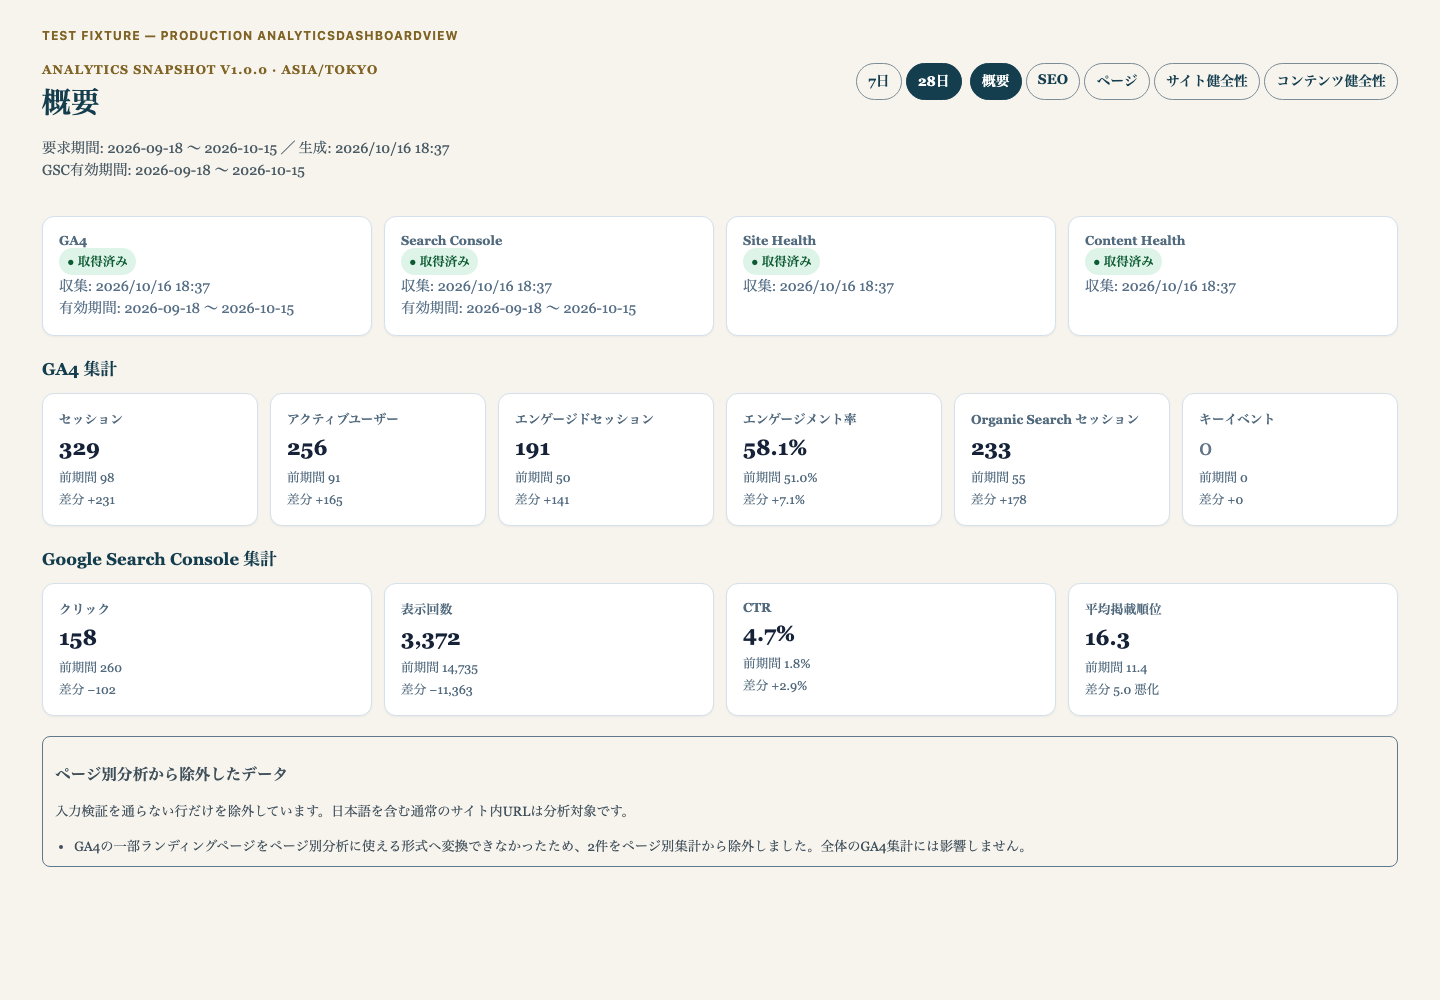
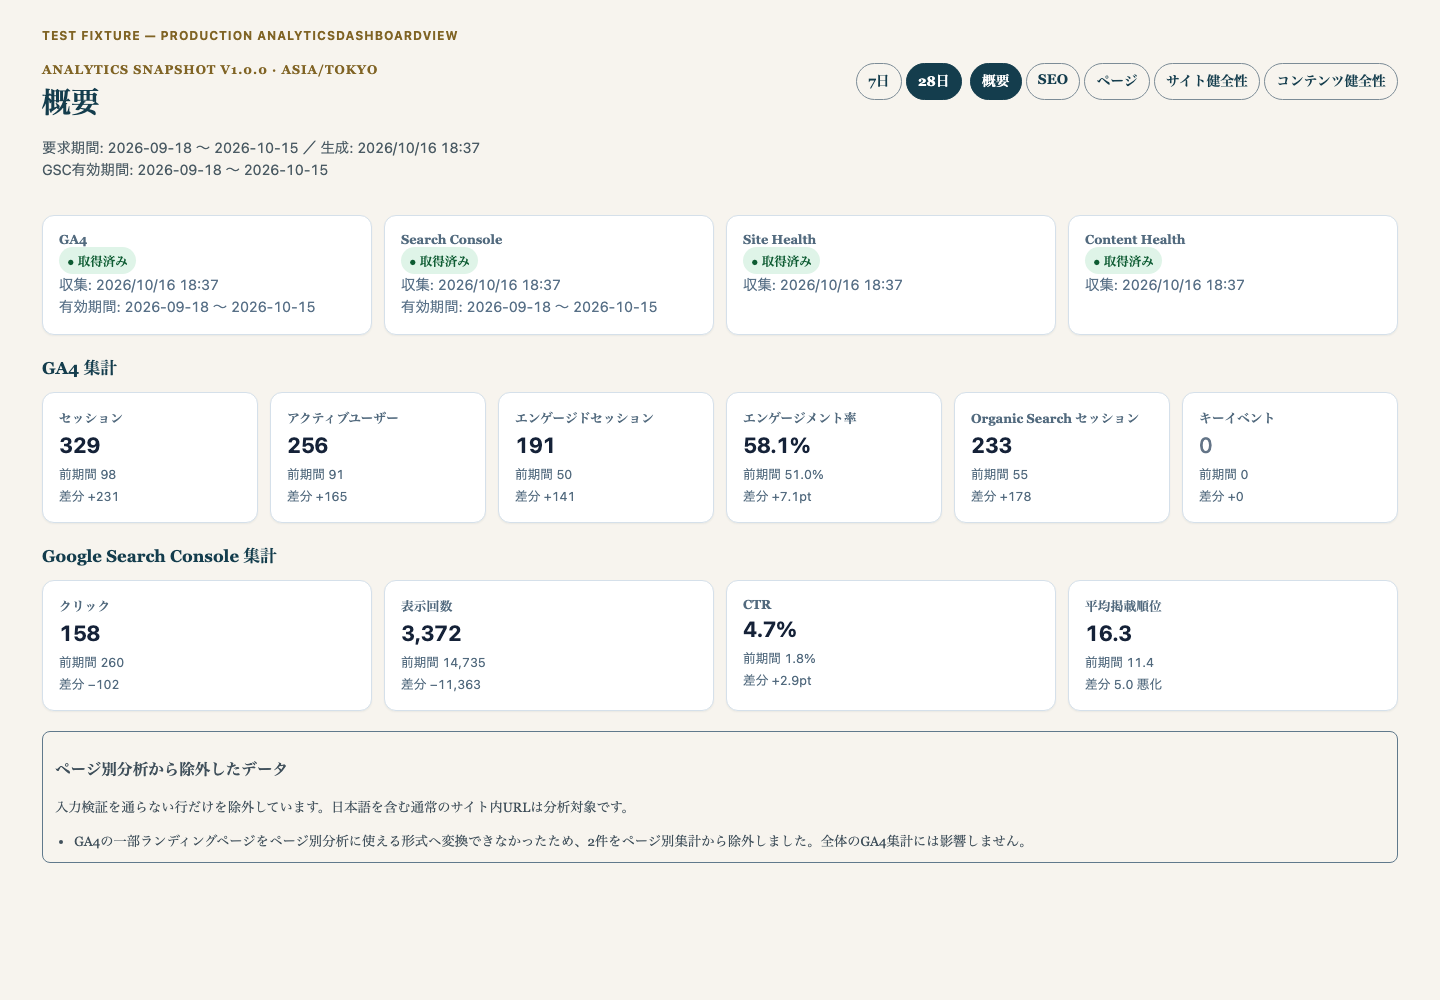
fix(analytics): improve numeric readability

diff --git a/headless/app/dashboard/analytics/AnalyticsDashboardView.ts b/headless/app/dashboard/analytics/AnalyticsDashboardView.ts
@@ -44,7 +44,7 @@ function overview(snapshot: AnalyticsSnapshot, styles: AnalyticsDashboardStyles)
 function seoRow(row: FocusArea, styles: AnalyticsDashboardStyles): ReactNode {
   const health = row.siteHealth;
   const indexability = !health || health.data === null || health.data.indexable === null ? "算出不可" : health.data.indexable ? "indexable" : health.data.indexabilityReason;
-  return h("tr", { key: row.path }, h("th", { scope: "row" }, h("strong", null, row.name), h("br"), h("span", { className: styles.path }, row.path)), h("td", null, row.mainQuery ?? "—"), tableCell(row.current.clicks, "count", styles), tableCell(row.previous.clicks, "count", styles), deltaCell(row.deltas.clicks, "count", styles), tableCell(row.current.impressions, "count", styles), tableCell(row.previous.impressions, "count", styles), deltaCell(row.deltas.impressions, "count", styles), tableCell(row.current.ctr, "percent", styles), tableCell(row.previous.ctr, "percent", styles), deltaCell(row.deltas.ctr, "percent", styles), tableCell(row.current.position, "position", styles), tableCell(row.previous.position, "position", styles), deltaCell(row.deltas.position, "position", styles), tableCell(row.current.organicSessions, "count", styles), tableCell(row.previous.organicSessions, "count", styles), deltaCell(row.deltas.organicSessions, "count", styles), h("td", null, health?.httpStatus ?? "—"), h("td", null, health?.data?.title ?? "—"), h("td", null, health?.data?.h1 ?? "—"), h("td", null, health?.data?.canonical ?? "—"), h("td", null, health?.data?.robots ?? "—"), h("td", null, indexability), h("td", null, formatTimestamp(row.checkedAt), h("br"), `GSC: ${formatTimestamp(row.collectedAt)}`));
+  return h("tr", { key: row.path }, h("th", { scope: "row" }, h("strong", null, row.name), h("br"), h("span", { className: styles.path }, row.path)), h("td", null, row.mainQuery ?? "—"), tableCell(row.current.clicks, "count", styles), tableCell(row.previous.clicks, "count", styles), deltaCell(row.deltas.clicks, "count", styles), tableCell(row.current.impressions, "count", styles), tableCell(row.previous.impressions, "count", styles), deltaCell(row.deltas.impressions, "count", styles), tableCell(row.current.ctr, "percent", styles), tableCell(row.previous.ctr, "percent", styles), deltaCell(row.deltas.ctr, "percent", styles), tableCell(row.current.position, "position", styles), tableCell(row.previous.position, "position", styles), deltaCell(row.deltas.position, "position", styles), tableCell(row.current.organicSessions, "count", styles), tableCell(row.previous.organicSessions, "count", styles), deltaCell(row.deltas.organicSessions, "count", styles), h("td", { className: styles.dataText }, health?.httpStatus ?? "—"), h("td", null, health?.data?.title ?? "—"), h("td", null, health?.data?.h1 ?? "—"), h("td", null, health?.data?.canonical ?? "—"), h("td", null, health?.data?.robots ?? "—"), h("td", null, indexability), h("td", { className: styles.dataText }, formatTimestamp(row.checkedAt), h("br"), `GSC: ${formatTimestamp(row.collectedAt)}`));
 }
 
 function tableRegion(label: string, caption: string, headers: readonly string[], rows: ReactNode[], styles: AnalyticsDashboardStyles, emptyMessage?: string): ReactNode { const bodyRows = rows.length ? rows : [h("tr", { key: "empty" }, h("td", { colSpan: headers.length }, emptyMessage ?? "対象期間にデータなし"))]; return h("div", { className: styles.scrollRegion, tabIndex: 0, "aria-label": label }, h("table", { className: styles.table }, h("caption", null, caption), h("thead", null, h("tr", null, ...headers.map((name) => h("th", { scope: "col", key: name }, name)))), h("tbody", null, ...bodyRows))); }
@@ -66,7 +66,7 @@ function pages(snapshot: AnalyticsSnapshot, styles: AnalyticsDashboardStyles): R
 function siteHealth(snapshot: AnalyticsSnapshot, styles: AnalyticsDashboardStyles): ReactNode {
   if (snapshot.siteHealth === null) return h("p", { className: styles.unavailable }, `Site Health: ${sourceStateLabel(snapshot.sources.web.state)}。利用可能な検査結果はありません。`);
   const headers = ["URL / パス", "状態", "HTTP", "title", "H1", "canonical", "robots", "indexability / reason", "checkedAt"];
-  const rows = snapshot.siteHealth.map((target) => h("tr", { key: target.path }, h("th", { scope: "row", className: styles.path }, target.path), h("td", null, badge(target.state, styles)), h("td", null, target.httpStatus ?? "—"), h("td", null, target.data?.title ?? "—"), h("td", null, target.data?.h1 ?? "—"), h("td", null, target.data?.canonical ?? "—"), h("td", null, target.data?.robots ?? "—"), h("td", null, target.data ? target.data.indexable === null ? target.data.indexabilityReason : target.data.indexable ? "indexable" : target.data.indexabilityReason : "算出不可"), h("td", null, formatTimestamp(target.checkedAt))));
+  const rows = snapshot.siteHealth.map((target) => h("tr", { key: target.path }, h("th", { scope: "row", className: styles.path }, target.path), h("td", null, badge(target.state, styles)), h("td", { className: styles.dataText }, target.httpStatus ?? "—"), h("td", null, target.data?.title ?? "—"), h("td", null, target.data?.h1 ?? "—"), h("td", null, target.data?.canonical ?? "—"), h("td", null, target.data?.robots ?? "—"), h("td", null, target.data ? target.data.indexable === null ? target.data.indexabilityReason : target.data.indexable ? "indexable" : target.data.indexabilityReason : "算出不可"), h("td", { className: styles.dataText }, formatTimestamp(target.checkedAt))));
   return h("section", { className: styles.section }, h("h3", null, "固定6 URL の検査結果"), tableRegion("Site Health検査結果表", "6つの固定検査対象。取得不能な項目を正常値で補いません。", headers, rows, styles));
 }
 

diff --git a/headless/app/dashboard/analytics/AnalyticsDashboardView.module.css b/headless/app/dashboard/analytics/AnalyticsDashboardView.module.css
@@ -2,7 +2,7 @@
 .hero { display: flex; gap: 1rem; align-items: flex-start; justify-content: space-between; flex-wrap: wrap; }
 .eyebrow { margin: 0; color: #806425; font-size: .78rem; font-weight: 700; letter-spacing: .08em; text-transform: uppercase; }
 .hero h2 { margin: .25rem 0; color: #143d4d; font-size: clamp(1.35rem, 3vw, 1.8rem); }
-.muted { color: #587087; font-size: .9rem; }
+.muted { color: #587087; font-family: var(--hl-sans); font-size: .9rem; font-variant-numeric: tabular-nums; line-height: 1.5; }
 .hero .muted { color: #4b5b64; }
 .filters { display: flex; gap: .5rem; flex-wrap: wrap; align-items: center; }
 .filterGroup { display: flex; gap: .25rem; flex-wrap: wrap; }
@@ -16,13 +16,13 @@
 .card { background: #fff; border: 1px solid #d5e0ea; border-radius: .75rem; color: #152238; padding: 1rem; box-shadow: 0 1px 2px rgb(15 43 70 / 6%); min-width: 0; }
 .card h3, .card p { margin: 0; }
 .cardTitle { color: #526a7e; font-size: .8rem; font-weight: 700; }
-.value { display: block; font-size: 1.35rem; font-variant-numeric: tabular-nums; margin-top: .35rem; }
+.value { display: block; font-family: var(--hl-sans); font-size: 1.35rem; font-variant-numeric: tabular-nums; font-feature-settings: "tnum" 1, "lnum" 1; letter-spacing: -.015em; line-height: 1.15; margin-top: .35rem; min-width: 0; white-space: nowrap; }
 .zero { color: #637487; font-weight: 500; }
-.comparison { display: grid; gap: .2rem; color: #526a7e; font-size: .79rem; margin-top: .5rem; font-variant-numeric: tabular-nums; }
+.comparison { display: grid; gap: .2rem; color: #526a7e; font-family: var(--hl-sans); font-size: .79rem; font-variant-numeric: tabular-nums; font-feature-settings: "tnum" 1, "lnum" 1; line-height: 1.45; margin-top: .5rem; }
 .badge { display: inline-flex; align-items: center; gap: .35rem; border-radius: 999px; font-size: .78rem; font-weight: 700; padding: .3rem .5rem; width: fit-content; }
 .stateOk { background: #dff4e8; color: #0d5b32; }.statePartial { background: #fff0c6; color: #744900; }.stateError { background: #ffe1e1; color: #8a1f1f; }
 .section { display: grid; gap: .75rem; }.section h3 { color: #143d4d; margin: 0; font-size: 1.05rem; }.sectionLead { color: #4b5b64; margin: 0; font-size: .9rem; }
 .scrollRegion { max-width: 100%; overflow-x: auto; border: 1px solid #d5e0ea; border-radius: .75rem; background: #fff; color: #152238; }
-.table { border-collapse: collapse; font-size: .82rem; min-width: 780px; width: 100%; }.table caption { caption-side: top; color: #365269; font-weight: 700; padding: .75rem; text-align: left; }.table th, .table td { border-top: 1px solid #e2e9ef; padding: .65rem; text-align: left; vertical-align: top; }.table th { background: #f2f6f9; color: #38536b; white-space: nowrap; }.numeric { font-variant-numeric: tabular-nums; text-align: right !important; white-space: nowrap; }.path { color: #355c77; overflow-wrap: anywhere; }.reason { color: #526a7e; }.details { border: 1px solid #60798c; border-radius: .5rem; padding: .6rem .75rem; color: #40505b; font-size: .83rem; }.details summary { cursor: pointer; font-weight: 700; }.warningList { margin: .5rem 0 0; padding-left: 1.2rem; }.unavailable { border-left: 4px solid #cc8a13; background: #fff8e6; color: #654600; padding: .8rem 1rem; }.bar { background: #c9dfef; border-radius: 999px; height: .45rem; min-width: 2px; }
+.table { border-collapse: collapse; font-size: .82rem; min-width: 780px; width: 100%; }.table caption { caption-side: top; color: #365269; font-weight: 700; padding: .75rem; text-align: left; }.table th, .table td { border-top: 1px solid #e2e9ef; padding: .65rem; text-align: left; vertical-align: top; }.table th { background: #f2f6f9; color: #38536b; white-space: nowrap; }.numeric, .dataText { font-family: var(--hl-sans); font-variant-numeric: tabular-nums; font-feature-settings: "tnum" 1, "lnum" 1; line-height: 1.45; }.numeric { text-align: right !important; white-space: nowrap; }.dataText { white-space: nowrap; }.path { color: #355c77; overflow-wrap: anywhere; }.reason { color: #526a7e; }.details { border: 1px solid #60798c; border-radius: .5rem; padding: .6rem .75rem; color: #40505b; font-size: .83rem; }.details summary { cursor: pointer; font-weight: 700; }.warningList { margin: .5rem 0 0; padding-left: 1.2rem; }.unavailable { border-left: 4px solid #cc8a13; background: #fff8e6; color: #654600; padding: .8rem 1rem; }.bar { background: #c9dfef; border-radius: 999px; height: .45rem; min-width: 2px; }
 @media (max-width: 600px) { .hero { display: grid; }.filters { align-items: flex-start; }.filterGroup { width: 100%; }.filterLink { flex: 1 1 auto; text-align: center; }.kpiGrid { grid-template-columns: repeat(2, minmax(0, 1fr)); }.card { padding: .8rem; }.table { font-size: .78rem; } }
 @media (prefers-reduced-motion: reduce) { .page, .page *, .page *::before, .page *::after { scroll-behavior: auto !important; transition-duration: 0.01ms !important; animation-duration: 0.01ms !important; } }

diff --git a/headless/app/dashboard/analytics/dashboard-ui.ts b/headless/app/dashboard/analytics/dashboard-ui.ts
@@ -54,6 +54,10 @@ export function formatMetric(value: number | null, kind: MetricKind): string {
 export function formatDelta(value: number | null, kind: MetricKind): string {
   if (value === null) return "—";
   if (kind === "position") return value === 0 ? "±0.0" : `${Math.abs(value).toLocaleString("ja-JP", { minimumFractionDigits: 1, maximumFractionDigits: 1 })} ${value < 0 ? "改善" : "悪化"}`;
+  if (kind === "percent") {
+    const points = (Math.abs(value) * 100).toLocaleString("ja-JP", { minimumFractionDigits: 1, maximumFractionDigits: 1 });
+    return `${value >= 0 ? "+" : "−"}${points}pt`;
+  }
   const formatted = formatMetric(Math.abs(value), kind);
   return `${value >= 0 ? "+" : "−"}${formatted}`;
 }

diff --git a/docs/technical/2026-10-16-rankup-ui-language-qa.md b/docs/technical/2026-10-16-rankup-ui-language-qa.md
@@ -12,6 +12,8 @@ Keep Eskomi's existing ivory dashboard treatment while making analytics text leg
 
 - Use the established dashboard ink and navy palette for page text, headings, explanatory copy, filter links, and the details disclosure.
 - Preserve selected tabs as white text on navy; add distinct hover, visible keyboard focus, and disabled appearances for filter links.
+- Keep editorial headings in the existing serif treatment while rendering dashboard dates, KPI values, table numbers, and comparison values in the dashboard sans-serif stack with tabular figures and stable line height. KPI figures do not wrap mid-number.
+- Keep metric inputs as decimal ratios and label percentage deltas in percentage points (`pt`), without changing collection or calculations.
 - Leave KPI card and table layout unchanged.
 - Lock the sRGB contrast rule in `headless/tests/analytics/dashboard-ui.test.mjs`: ordinary text and state labels are at least 4.5:1, and the focus indicator is at least 3:1.
 
@@ -20,6 +22,7 @@ Keep Eskomi's existing ivory dashboard treatment while making analytics text leg
 - Production desktop inspection showed the pre-change Analytics Snapshot label (`#91bfc2`), non-selected tabs (`#cbd8e3`), GA4 section heading (`#dbe6ee`), and notice disclosure (`#b8c9d6`) on the ivory surface.
 - Production desktop inspection of the public top page, dashboard shop list, and dashboard shop detail found the established dark ink/navy treatment rather than this residual dark-theme module palette.
 - Focused analytics test: 6/6 passed after the change.
+- Numeric-display regression tests cover zero, grouped large counts, decimal percentages, negative values, and percentage-point deltas; Analytics UI tests and render tests pass 11/11.
 - `npm run lint`, `npm run typecheck`, and `npm run build` passed. The build generated 72/72 routes; network-isolated WordPress reads used their existing fallbacks.
 - The existing headless browser layout run visited Analytics Dashboard at 1440, 1280, 1024, 768, 500, 390, 375, 320, responsive boundaries, and phone landscape. Its aggregate result is not a pass: network-isolated WordPress fallback data causes unrelated public card/review fixture mismatches (6,001 assertions).
 - A dedicated in-memory fixture rendered the production `AnalyticsDashboardView` and its CSS module (not a loading/503 route) at 1440px and 390px. The resulting visual evidence is saved at `headless/docs/technical/artifacts/analytics-qa-desktop-1440.png` and `headless/docs/technical/artifacts/analytics-qa-mobile-390.png`.
